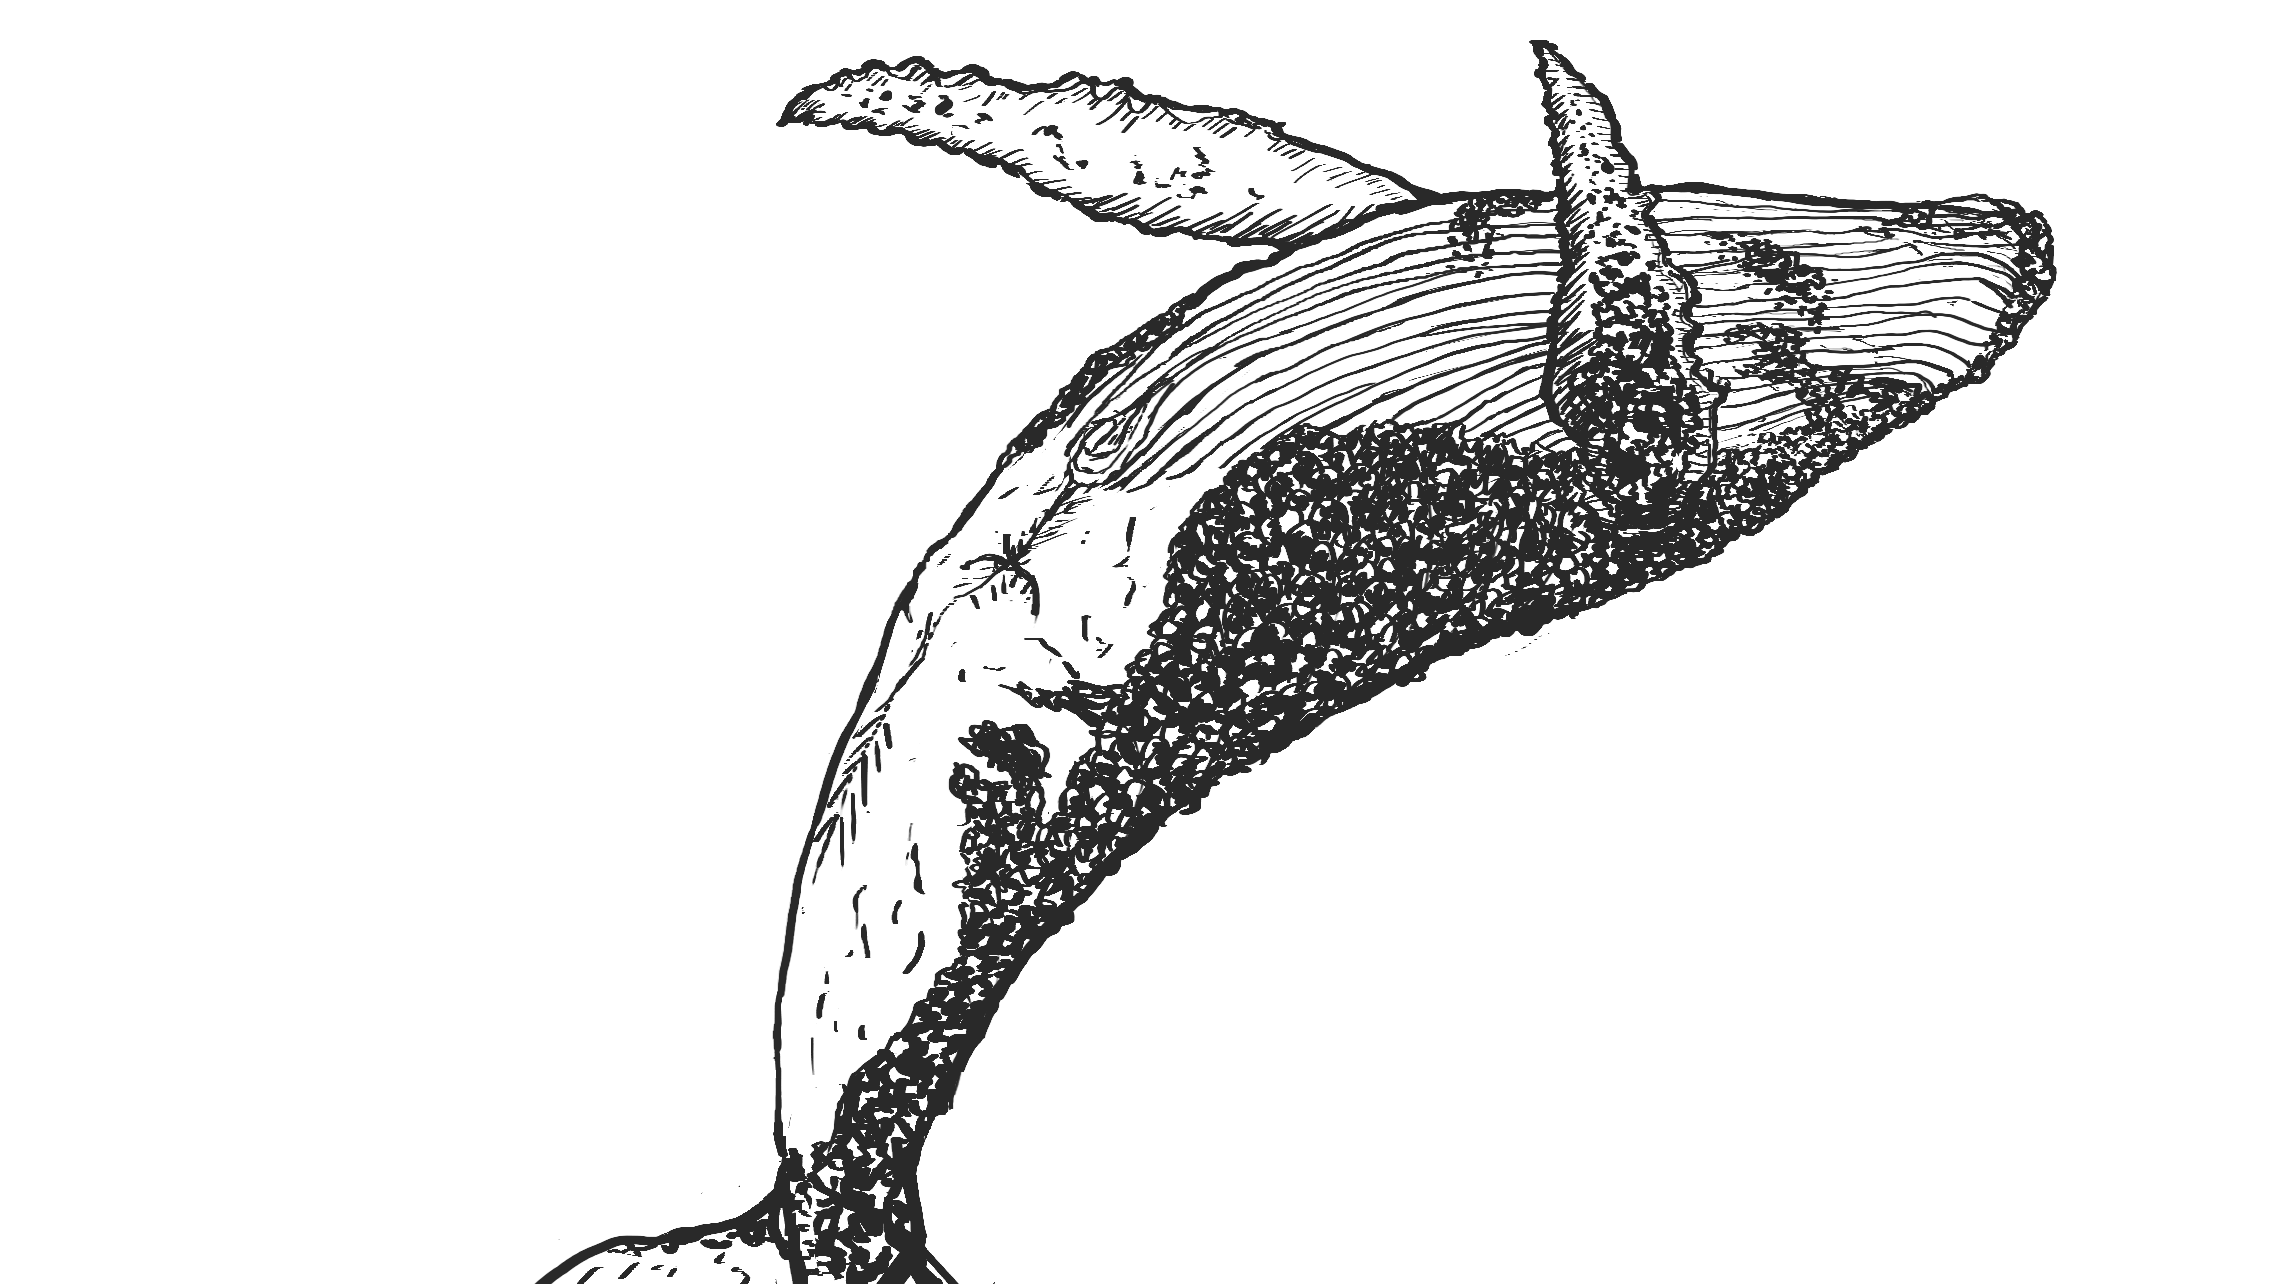
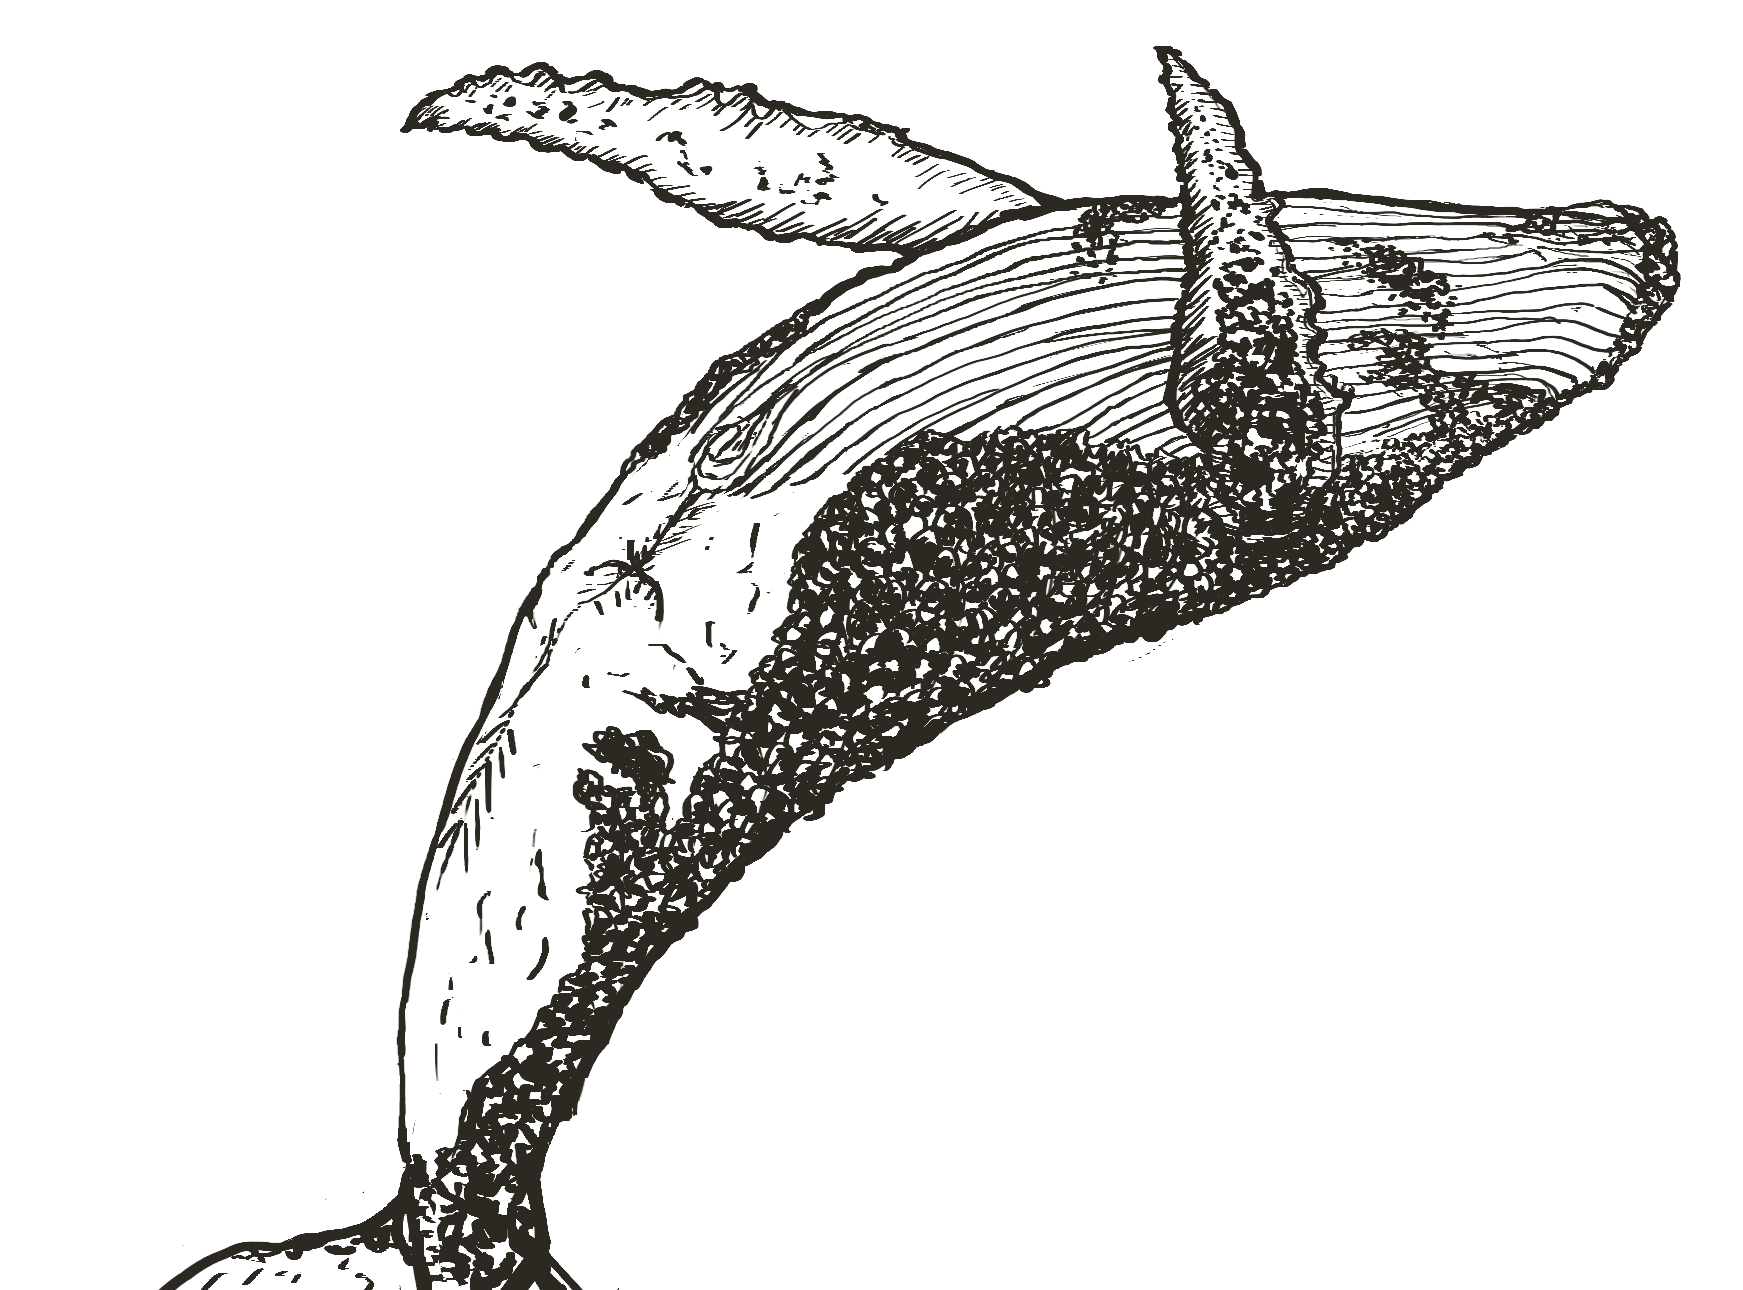
resize img and throw away masking...

Changed region(s): [[0.0929, 0.0312, 0.9604, 1.0]]

diff --git a/asset/js/all.js b/asset/js/all.js
@@ -7,34 +7,35 @@ var x_red, x_blue, x_orange, x_white;
 
 /*redefine positions and variables when window resize*/
 $(window).resize(function() {
-    width = $(window).width();
-    height = $(window).height();
-
-    //resize wave images position
-    $('.wave-white').offset({top:height-200});
-
-    $('.wave-orange').offset({top:height-225});
-
-    $('.wave-blue').offset({top:height-250});
-
-    $('.wave-red').offset({top:height-275});
+    reposition();
 });
 
-/*Redefine positions and variables when window scroll*/
+
+/*redefine positions and variables when window scroll*/
 $(window).scroll(function() {
+    reposition();
+});
+
+/*redefine position and variables when window opens*/
+$(document).ready(function(){
+    reposition();
+});
+
+
+/*Reposition function*/
+function reposition(){
     width = $(window).width();
     height = $(window).height();
 
     //resize wave images position
-    $('.wave-white').offset({top:height-200});
+    $('.wave-white').offset({top:2*height-200});
 
-    $('.wave-orange').offset({top:height-225});
+    $('.wave-orange').offset({top:2*height-225});
 
-    $('.wave-blue').offset({top:height-250});
+    $('.wave-blue').offset({top:2*height-250});
 
-    $('.wave-red').offset({top:height-275});
-});
-
+    $('.wave-red').offset({top:2*height-275});
+};
 /*//////////////////////////*/
 /*Whale animation*/
 /*//////////////////////////*/

diff --git a/asset/css/all.css b/asset/css/all.css
@@ -32,7 +32,7 @@ body {
     background-image: url("../img/web/wave-blue.png");
 }
 .wave-orange{
-    left: 5vh;
+    left: 6vh;
     z-index: -5;
     background-image: url("../img/web/wave-orange.png");
 }
@@ -48,22 +48,21 @@ body {
 /*///////////////////////////////////////*/
 .whale{
     position: absolute;
-    top: 0px;
-    left: 0px;
-    height: 100%;
+    top: 50px;
+    right: 0px;
     width: 100%;
 }
 .whale-bg{
     z-index: -4;
     overflow: hidden;
-    background-image: url("../img/web/whale-bg-low.png");
     /* not a <clippath>
+    background-image: url("../img/web/whale-bg-low.png");
     clip-path: url("../img/web/whale-mask.png");
     -webkit-clip-path: url("../img/web/whale-mask.png");*/
     /*-webkit-mask-box-image: url("../img/web/whale-mask.png");
     -webkit-mask-image: url("../img/web/whale-mask.png");
-    */
     mask: url(../img/web/circle.svg#whale-mask);
+    */
 }
 .whale-clip{
     -webkit-clip-path: polygon(539px 1285px, 595.859px 1248.558px, 618.143px 1240.23px, 644.409px 1239.442px, 
@@ -157,7 +156,7 @@ body {
     color: #2B2922;
 }
 body.background {
-    background-color: #2B2922;
+    /*background-color: #2B2922;*/
 }
 /*
 h1 {

diff --git a/index.html b/index.html
@@ -58,17 +58,20 @@ resize image http://stackoverflow.com/questions/12991351/css-force-image-resize-
             <div class="page-header">
                 <h1>Diving into the world of wonders</h1>
             </div>
+        </div>
+
+        <div class="full-win" id="home-animation">
             <div class="row">
                 <div class="wave wave-red"></div>
                 <div class="wave wave-blue"></div>
                 <div class="wave wave-orange"></div>
-                <div class="whale whale-line"><img src="asset/img/web/whale-line.png"></div>
-                <!--<canvas class="whale whale-mask"></canvas> -->
-                <div class="whale whale-bg"><img class="whale-clip" src="asset/img/web/whale-bg-low.png"></div>
+                <div class="whale">
+                    <img class="whale whale-line" src="asset/img/web/whale-line.png">
+                    <img class="whale whale-bg" src="asset/img/web/whale-bg.png">
+                </div>
                 <div class="wave wave-white"></div>
             </div>
         </div>
-
 
 
 
